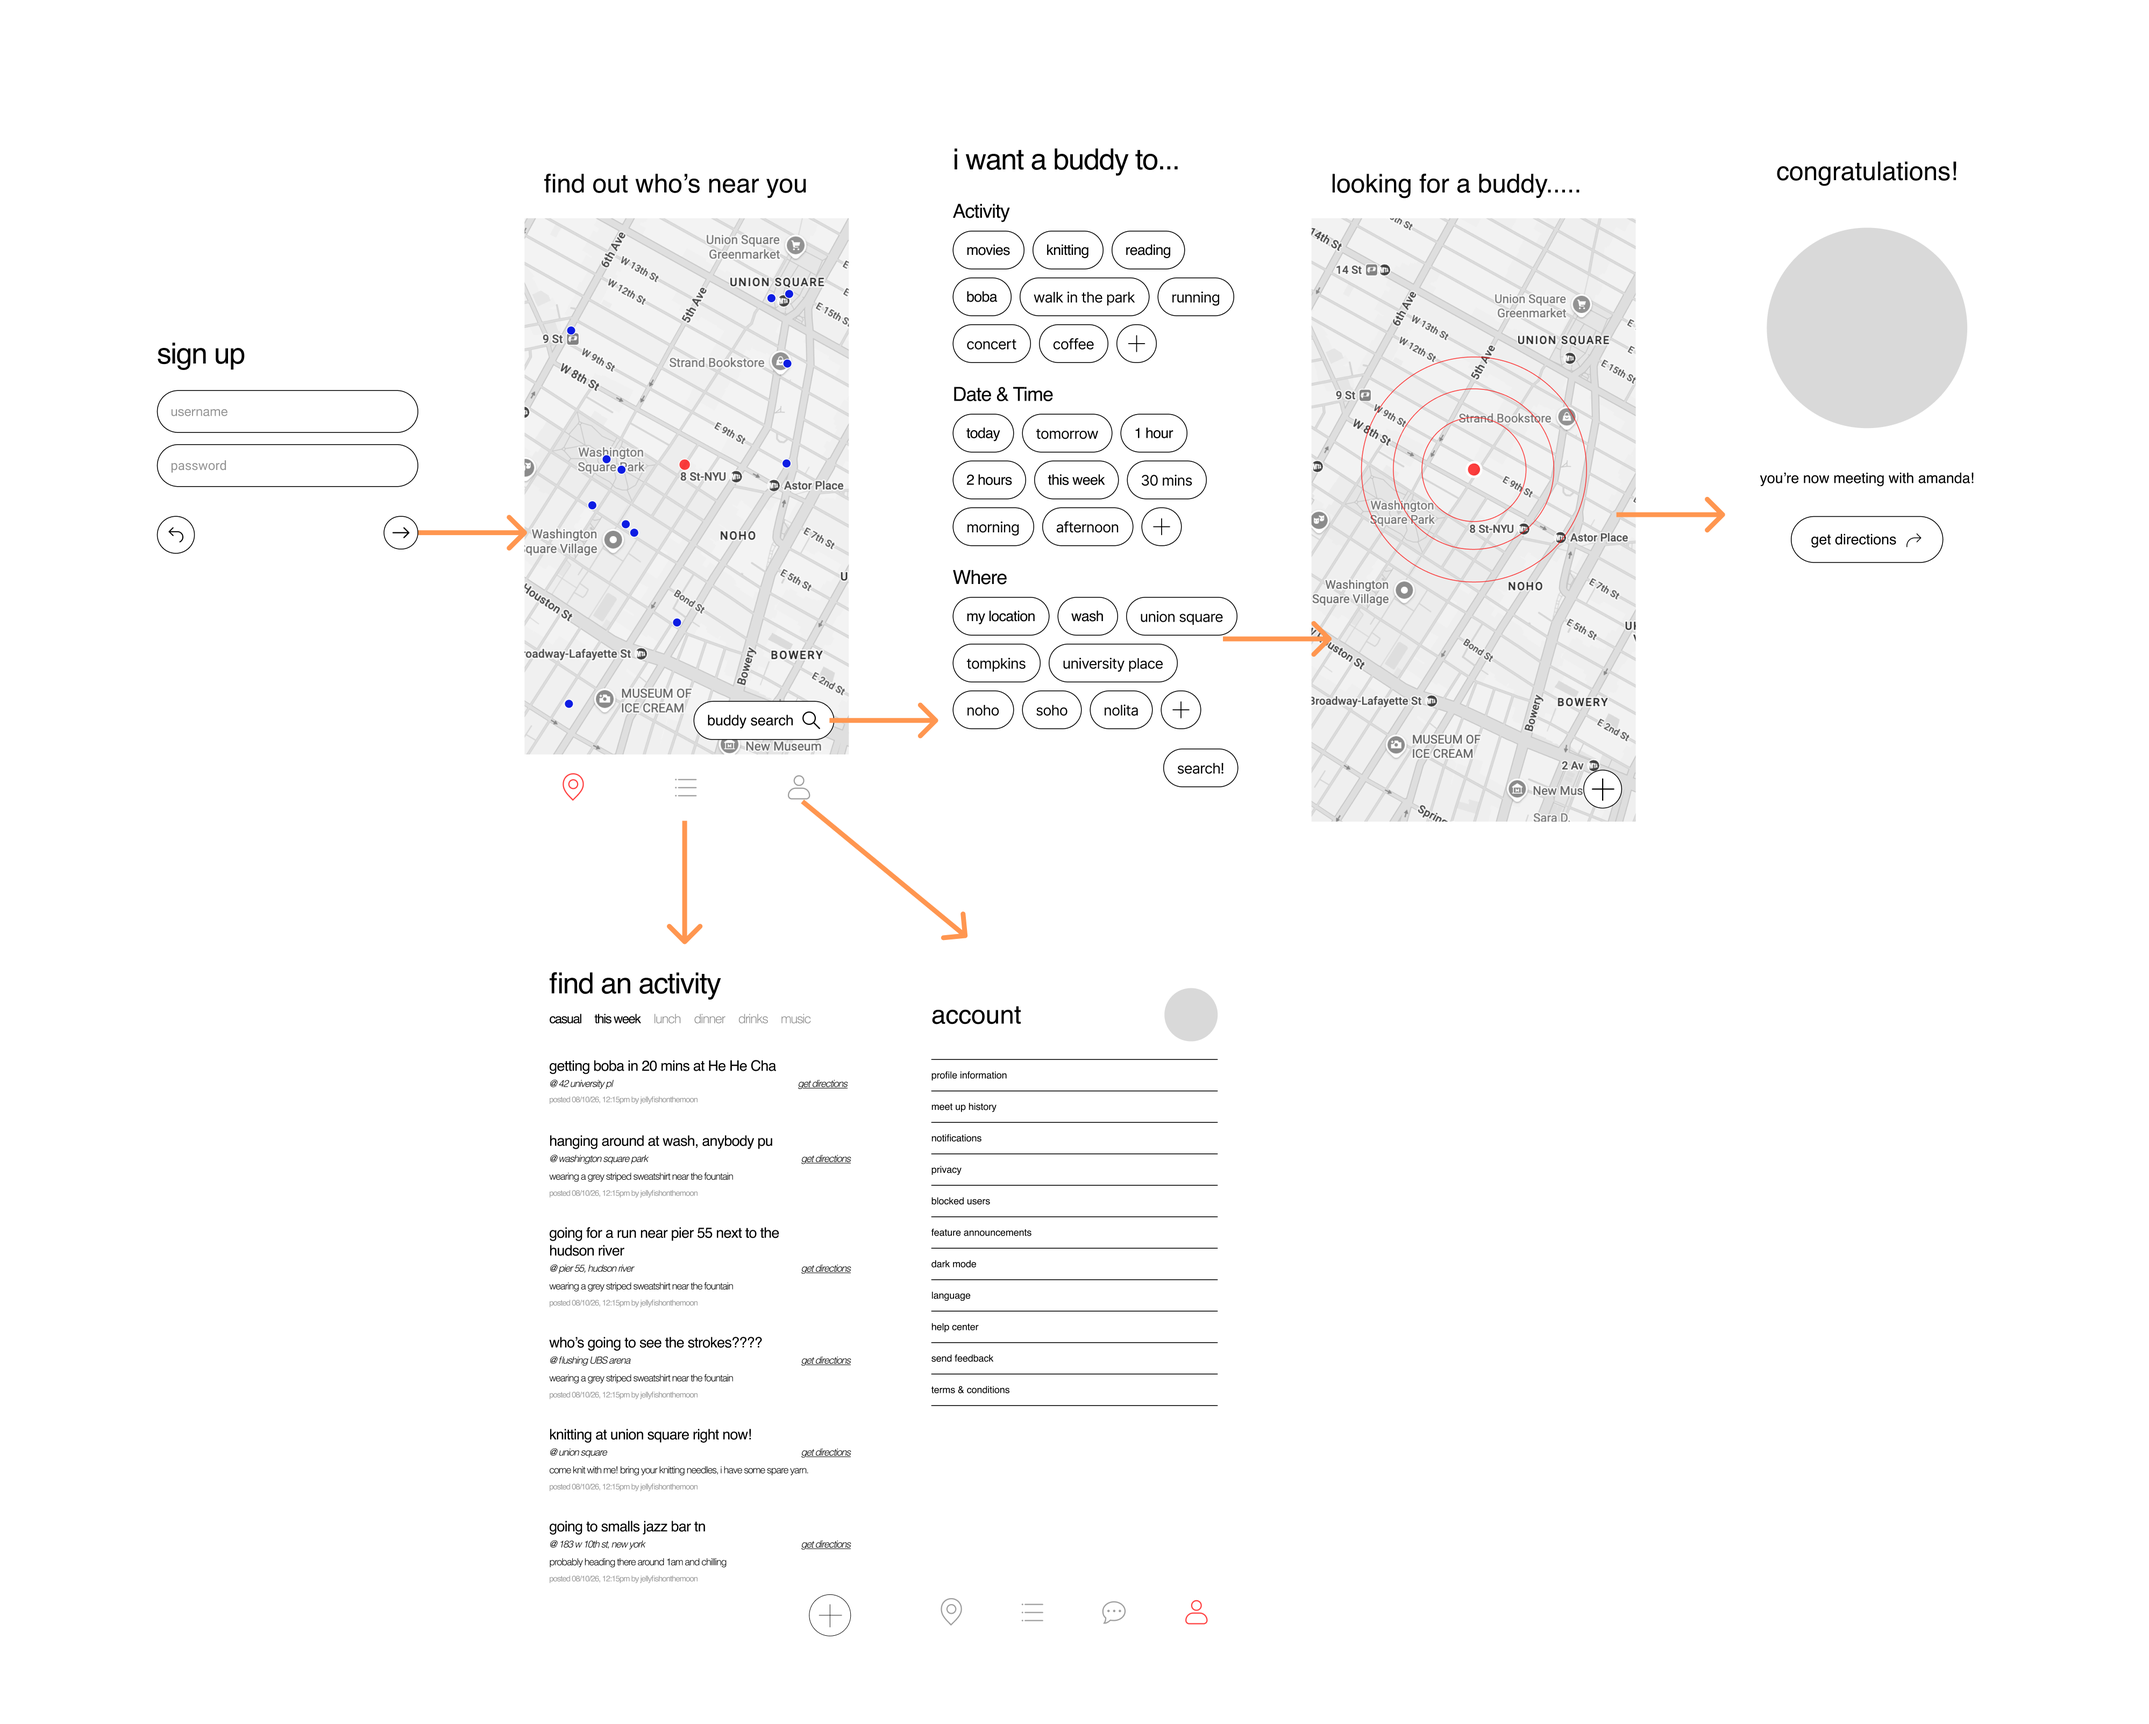
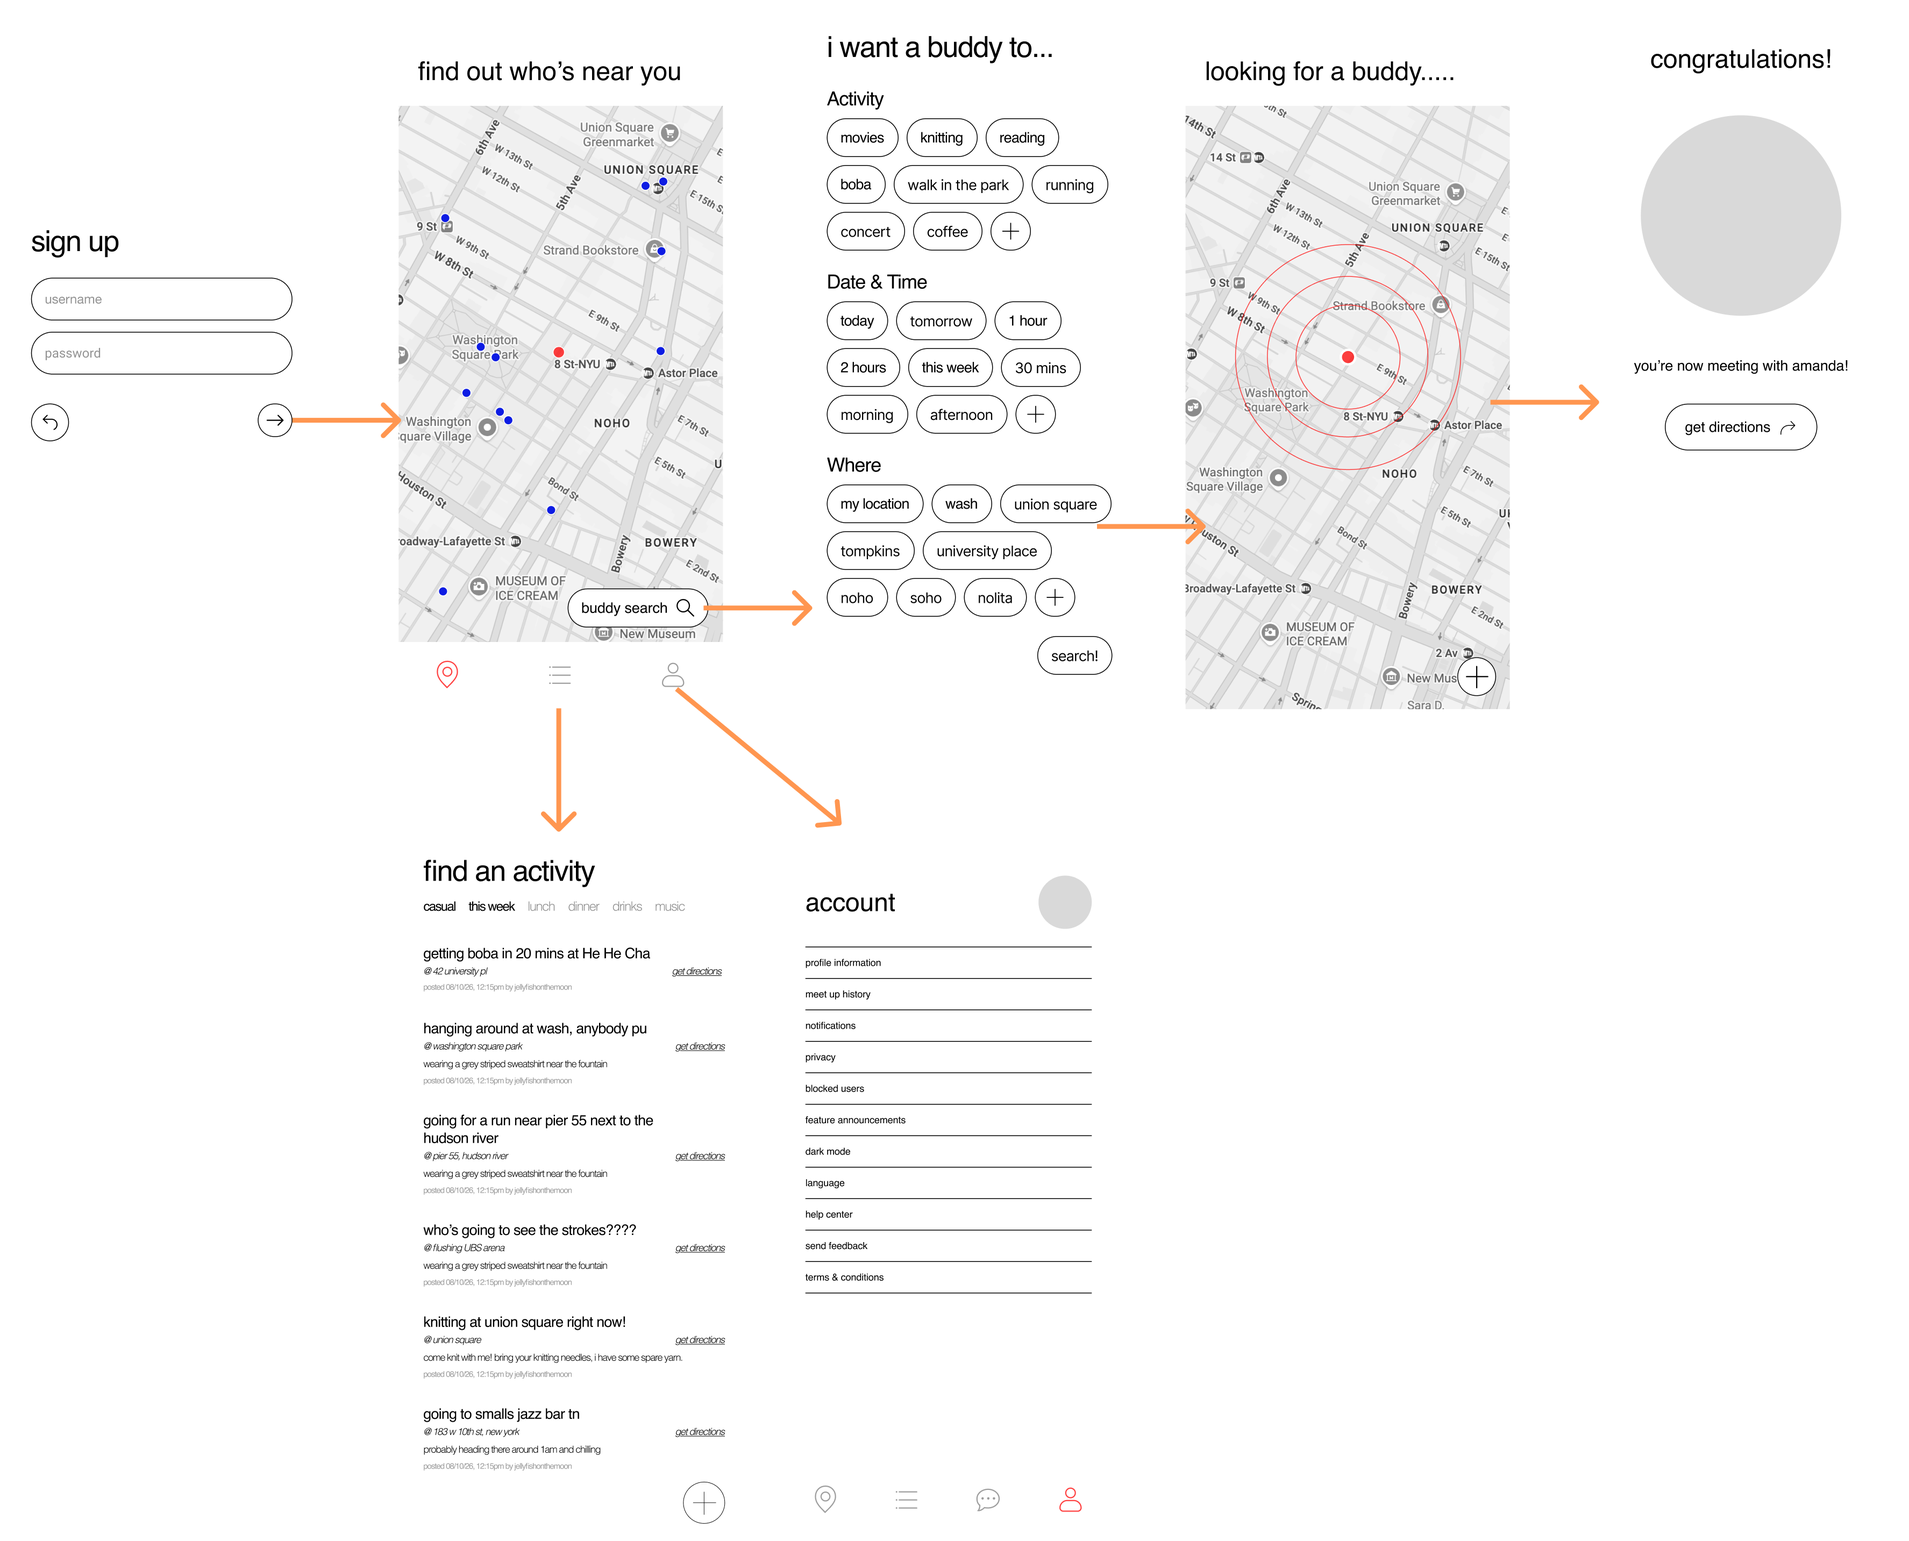
editing wireframes layout

diff --git a/work/tangent.html b/work/tangent.html
@@ -44,14 +44,14 @@
         <div class="media-crop" style="width: 100%; aspect-ratio: 1920 / 1080;">
           <img style="top: -36.61%; left: -14.87%; width: 129.73%; height: 161.44%;" src="../imgs/tangent/cover.png" alt="Tangent app shown on a phone held in hand">
         </div>
+        <div class="phone-mockup">
+        <video class="hero-media" src="../imgs/tangent/figma-mockup-1.mov" controls muted playsinline></video>
+      </div>
         <div class="media-crop" style="width: 100%; aspect-ratio: 872.246 / 647.943;">
           <img style="top: -38.38%; left: -34.67%; width: 165.65%; height: 148.68%;" src="../imgs/tangent/two-phone.png" alt="Two phones showing Tangent's matching screens">
         </div>
       </div>
 
-      <div class="phone-mockup">
-        <video class="hero-media" src="../imgs/tangent/figma-mockup-1.mov" controls autoplay playsinline></video>
-      </div>
 
       <section class="case-section">
         <h2>Problem</h2>
@@ -88,8 +88,8 @@
         <section class="case-section">
           <h2>Market Analysis</h2>
           <div class="case-columns">
-            <p class="case-text">Each competitor focuses more on getting people to go to events with large groups of people at an event venue that might be far away from where they are, and often cost more money on top of the monthly membership fee. The events usually required reserving in advance, and tend to run out of available spots closer to the date. The onboarding experience for Time Left and Meet Up were average in length, but it was especially long and tedious for 222, although for 222 the long onboarding feels like an MBTI test that plays into the feeling of personalization. Time Left and Meet Up both felt like they targeted more working adults rather than college students, but 222 feels a bit more casual with a 22 and under event option.</p>
             <p class="case-statement">The opportunity was in making meeting new people and making plans feel easy, accessible, and low-commitment.</p>
+            <p class="case-text">Each competitor focuses more on getting people to go to events with large groups of people at an event venue that might be far away from where they are, and often cost more money on top of the monthly membership fee. The events usually required reserving in advance, and tend to run out of available spots closer to the date. The onboarding experience for Time Left and Meet Up were average in length, but it was especially long and tedious for 222, although for 222 the long onboarding feels like an MBTI test that plays into the feeling of personalization. Time Left and Meet Up both felt like they targeted more working adults rather than college students, but 222 feels a bit more casual with a 22 and under event option.</p>
           </div>
         </section>
 
@@ -112,7 +112,7 @@
         <img class="media media--cover" style="aspect-ratio: 1817 / 1124;" src="../imgs/tangent/user_persona.png" alt="Tangent user persona">
       </section>
 
-      <section class="case-section case-section--wide">
+    <section class="case-section case-section--wide">
         <h2>Wireframing</h2>
         <div class="case-columns case-columns--tight">
           <p class="case-text">From my research, I identified the following features to address the pain points of the users.</p>
@@ -131,15 +131,16 @@
             <h3>Map View &amp; Directions</h3>
             <p>Users should be able to see how many app users there are nearby as well as get immediate directions to the person they are meeting up with.</p>
           </div>
-        </div>
-        <div class="media-crop" style="width: 100%; aspect-ratio: 1208 / 882.061;">
-          <img style="top: -6.29%; left: 0; width: 100%; height: 109.88%;" src="../imgs/tangent/wireframes.png" alt="Tangent wireframes">
-        </div>
-        <div class="case-columns case-columns--tight">
-          <p class="case-text">The wireframes helped me identify information dense areas of the app in where there could be lessened cognitive load to the user, such as the selection options page and the activity list page. After creating the wireframe, I also decided to change the sign up page to only be a phone number verification, so users have no need to create an official account with their email.</p>
-          <div></div>
-        </div>
-      </section>
+            </div>
+            <div class="media-crop" style="width: 100%; aspect-ratio: 1208 / 882.061;">
+            <img style="width: 100%;" src="../imgs/tangent/wireframes.png" alt="Tangent wireframes">
+            </div>
+       
+            <div class="case-section case-section--wide">
+            <p class="case-text">The wireframes helped me identify information dense areas of the app in where there could be lessened cognitive load to the user, such as the selection options page and the activity list page. After creating the wireframe, I also decided to change the sign up page to only be a phone number verification, so users have no need to create an official account with their email.</p>
+            <div></div>
+            </div>
+    </section>
 
       <section class="case-section case-section--wide">
         <h2>User Tests</h2>
@@ -149,11 +150,11 @@
             <p>The task was: You want to meet new people in the city, so you signed up for a meet up app that matches you with other people looking to hang out. Find someone to meet up with.</p>
             <p>Users were generally able to navigate the app without difficulty, although they had feedback on some of the interface having a slightly romantic insinuations.</p>
           </div>
-          <div></div>
-        </div>
+        <div></div>
       </section>
-    </main>
-  </div>
+    
+    </main>  
+</div>
   <script src="../project.js"></script>
 </body>
 </html>
